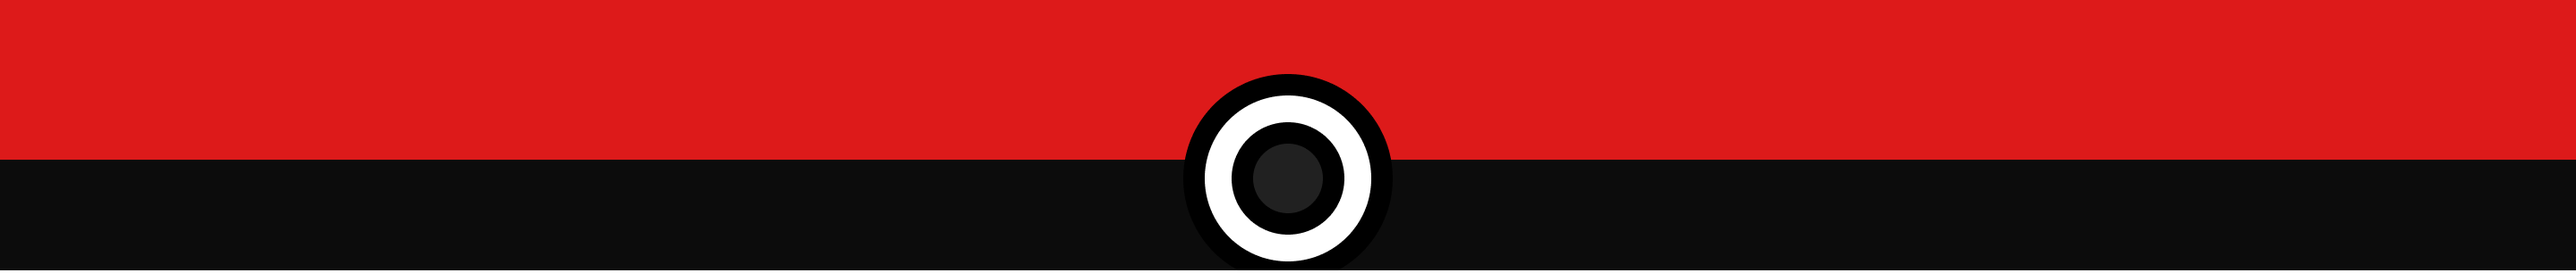
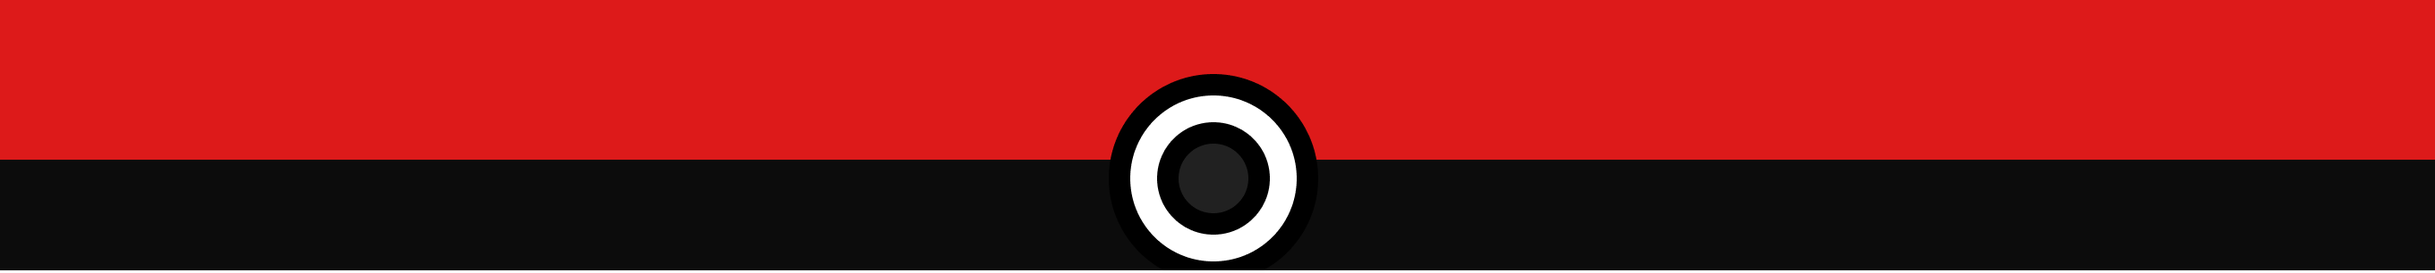
ajustes de tamanos pokedex

Changed region(s): [[0.4373, 0.2941, 0.4998, 0.9412]]

diff --git a/src/pages/styles_pages/home.css b/src/pages/styles_pages/home.css
@@ -1,7 +1,7 @@
 
 
 .home__container{
-    /* background-color: blueviolet; */
+    background-color: blueviolet;
     padding: .5em;
     height:  100vh;
     display: flex;
@@ -42,7 +42,7 @@ img{
 .home_logo-img img{
   display: block;
   width: 100%;
-  aspect-ratio:5/2;
+  aspect-ratio:5/1;
 }
 
 
@@ -50,7 +50,7 @@ img{
     margin-top: 1em;
     text-align: center;
     color: rgb(248, 5, 5);
-    font-size: 1.1rem;
+    font-size: 1.2rem;
     font-weight: 100;
     font-family: initial;
 }
@@ -58,7 +58,7 @@ img{
 .home__give-name{
 text-align: center;
 color: black;
-font-size: .7rem;
+font-size: .8rem;
 }
 
 .home_footer{

diff --git a/src/pages/Pokedex.jsx b/src/pages/Pokedex.jsx
@@ -17,7 +17,7 @@ const Pokedex = () => {
     <article className="pokedex__container">
       
        <header className="pokedex__header">
-        <img className="img__guarda" src="../../img/guarda_sup_pokedex.svg" alt="" />
+        <img className="img__guarda" src="../../public/img/GUARDA_SUP_POKE.png" alt="" />
           <img className="img__logo" src="../../img/logo_Pokedex_png_SFondo.png" alt="" />
         </header>
       <section className="pokedex__body">

diff --git a/src/pages/styles_pages/styles_Pokedex.css b/src/pages/styles_pages/styles_Pokedex.css
@@ -87,7 +87,7 @@ margin-bottom: 2em;
 .pokedex__welcome-span2{
 font-size: 1.2rem;
 font-family: Arial, Helvetica, sans-serif;
-
+text-align:center;
 }
 
 
